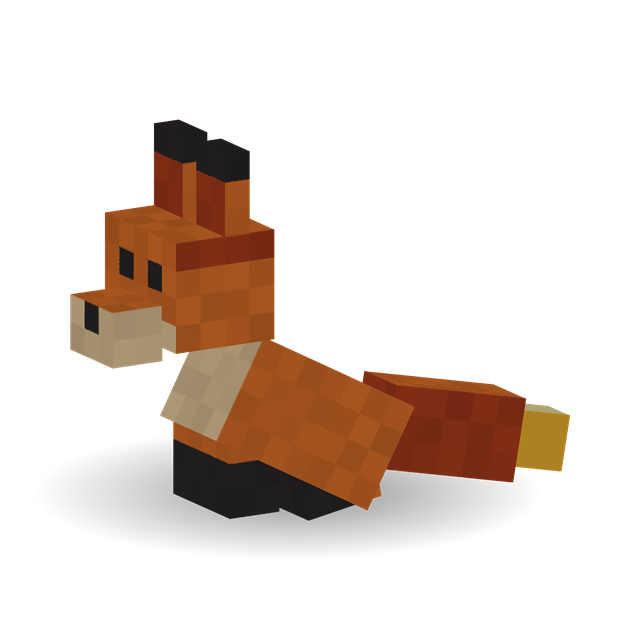
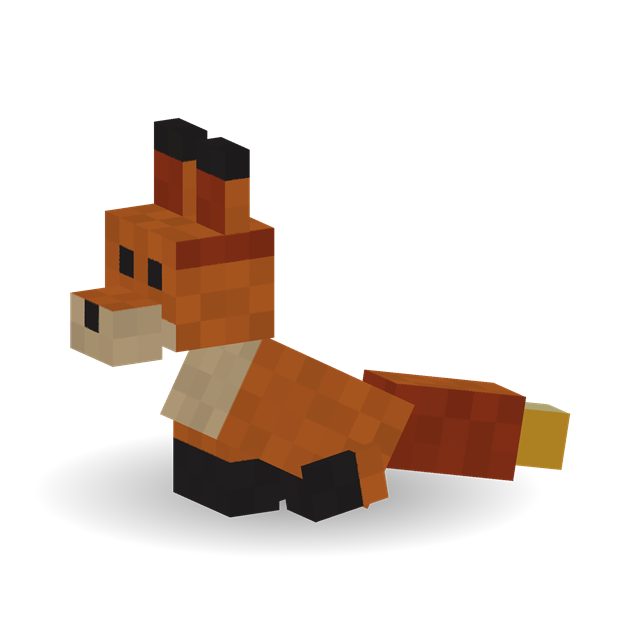
Phase 7: polish (glow tip, sounds, spawn egg, sitting pose)
- CindercubGlowLayer: ember tail tip drawn full-bright via an EyesLayer
  and a glow map generated alongside the main texture.
- ModSounds + sounds.json: Cindercub ambient/hurt/death events with own
  subtitles, reusing vanilla fox sounds by event, pitched up.
- Original spawn egg texture and model (tools/generate_spawn_egg_texture.ps1).
- Sitting pose: hind legs moved out half a pixel to stop z-fighting;
  preview renders regenerated.
- README: known limitations, structure, test steps; Phase 7 checked off.

diff --git a/src/main/java/com/ashi/mythweave/entity/CindercubEntity.java b/src/main/java/com/ashi/mythweave/entity/CindercubEntity.java
@@ -1,8 +1,11 @@
 package com.ashi.mythweave.entity;
 
 import com.ashi.mythweave.ability.EmberSpark;
+import com.ashi.mythweave.registry.ModSounds;
 
 import net.minecraft.network.chat.Component;
+import net.minecraft.sounds.SoundEvent;
+import net.minecraft.world.damagesource.DamageSource;
 import net.minecraft.server.level.ServerLevel;
 import net.minecraft.world.InteractionHand;
 import net.minecraft.world.InteractionResult;
@@ -172,6 +175,27 @@ public class CindercubEntity extends TamableAnimal {
 		this.setOrderedToSit(false);
 		this.level().broadcastEntityEvent(this, EVENT_HEART_PARTICLES);
 		player.sendOverlayMessage(Component.translatable("message.mythweave.cindercub.bonded"));
+	}
+
+	// Sounds: Mythweave's own events (see ModSounds), pitched up because it's small.
+	@Override
+	protected @Nullable SoundEvent getAmbientSound() {
+		return ModSounds.CINDERCUB_AMBIENT;
+	}
+
+	@Override
+	protected @Nullable SoundEvent getHurtSound(DamageSource source) {
+		return ModSounds.CINDERCUB_HURT;
+	}
+
+	@Override
+	protected @Nullable SoundEvent getDeathSound() {
+		return ModSounds.CINDERCUB_DEATH;
+	}
+
+	@Override
+	public float getVoicePitch() {
+		return super.getVoicePitch() * 1.25F;
 	}
 
 	public int getEmberCooldown() {

diff --git a/src/main/java/com/ashi/mythweave/registry/ModSounds.java b/src/main/java/com/ashi/mythweave/registry/ModSounds.java
@@ -1,0 +1,31 @@
+package com.ashi.mythweave.registry;
+
+import com.ashi.mythweave.Mythweave;
+
+import net.minecraft.core.Registry;
+import net.minecraft.core.registries.BuiltInRegistries;
+import net.minecraft.resources.Identifier;
+import net.minecraft.sounds.SoundEvent;
+
+/**
+ * Mythweave sound events. What each one plays is defined in
+ * {@code assets/mythweave/sounds.json}: for now they reuse vanilla fox sounds (by event, so
+ * no audio files are shipped), with Mythweave's own subtitles. Cindercub raises the pitch.
+ */
+public final class ModSounds {
+	public static final SoundEvent CINDERCUB_AMBIENT = register("entity.cindercub.ambient");
+	public static final SoundEvent CINDERCUB_HURT = register("entity.cindercub.hurt");
+	public static final SoundEvent CINDERCUB_DEATH = register("entity.cindercub.death");
+
+	private ModSounds() {
+	}
+
+	private static SoundEvent register(String name) {
+		Identifier id = Mythweave.id(name);
+		return Registry.register(BuiltInRegistries.SOUND_EVENT, id, SoundEvent.createVariableRangeEvent(id));
+	}
+
+	/** Called from {@link Mythweave#onInitialize()}; loading the class runs the registrations. */
+	public static void initialize() {
+	}
+}

diff --git a/src/client/java/com/ashi/mythweave/client/render/CindercubGlowLayer.java b/src/client/java/com/ashi/mythweave/client/render/CindercubGlowLayer.java
@@ -1,0 +1,29 @@
+package com.ashi.mythweave.client.render;
+
+import com.ashi.mythweave.Mythweave;
+import com.ashi.mythweave.client.model.CindercubModel;
+
+import net.minecraft.client.renderer.entity.RenderLayerParent;
+import net.minecraft.client.renderer.entity.layers.EyesLayer;
+import net.minecraft.client.renderer.rendertype.RenderType;
+import net.minecraft.client.renderer.rendertype.RenderTypes;
+
+/**
+ * Makes the ember tail tip glow: draws the model a second time with a texture that is
+ * transparent except for the tip, using the full-bright "eyes" render type (the same one
+ * spider and enderman eyes use), so the tip stays lit in the dark.
+ *
+ * <p>Purely visual; the glow map is painted by {@code tools/generate_cindercub_texture.ps1}.
+ */
+public class CindercubGlowLayer extends EyesLayer<CindercubRenderState, CindercubModel> {
+	private static final RenderType GLOW = RenderTypes.eyes(Mythweave.id("textures/entity/cindercub_glow.png"));
+
+	public CindercubGlowLayer(RenderLayerParent<CindercubRenderState, CindercubModel> renderer) {
+		super(renderer);
+	}
+
+	@Override
+	public RenderType renderType() {
+		return GLOW;
+	}
+}

diff --git a/src/main/java/com/ashi/mythweave/Mythweave.java b/src/main/java/com/ashi/mythweave/Mythweave.java
@@ -3,6 +3,7 @@ package com.ashi.mythweave;
 import com.ashi.mythweave.registry.ModBlocks;
 import com.ashi.mythweave.registry.ModEntityTypes;
 import com.ashi.mythweave.registry.ModItems;
+import com.ashi.mythweave.registry.ModSounds;
 
 import net.fabricmc.api.ModInitializer;
 
@@ -26,6 +27,7 @@ public class Mythweave implements ModInitializer {
 		// Proceed with mild caution.
 
 		// Entity types and blocks first: items refer to CINDERCUB and EMBER_BRAZIER.
+		ModSounds.initialize();
 		ModEntityTypes.initialize();
 		ModBlocks.initialize();
 		ModItems.initialize();

diff --git a/src/client/java/com/ashi/mythweave/client/model/CindercubModel.java b/src/client/java/com/ashi/mythweave/client/model/CindercubModel.java
@@ -127,6 +127,10 @@ public class CindercubModel extends EntityModel<CindercubRenderState> {
 		this.leftHindLeg.xRot = -1.4F;
 		this.rightHindLeg.y += 2.0F;
 		this.leftHindLeg.y += 2.0F;
+		// Folded legs would sit exactly flush with the body's sides (both at x = +/-2) and
+		// flicker where the faces overlap; half a pixel outward reads as haunches instead.
+		this.rightHindLeg.x -= 0.5F;
+		this.leftHindLeg.x += 0.5F;
 		this.rightFrontLeg.xRot = 0.0F;    // no walk swing while sitting
 		this.leftFrontLeg.xRot = 0.0F;
 	}

diff --git a/src/client/java/com/ashi/mythweave/client/render/CindercubRenderer.java b/src/client/java/com/ashi/mythweave/client/render/CindercubRenderer.java
@@ -21,6 +21,7 @@ public class CindercubRenderer extends MobRenderer<CindercubEntity, CindercubRen
 	public CindercubRenderer(EntityRendererProvider.Context context) {
 		// 0.3 = shadow radius in blocks, sized for the 0.5-wide hitbox.
 		super(context, new CindercubModel(context.bakeLayer(CindercubModel.LAYER)), 0.3F);
+		this.addLayer(new CindercubGlowLayer(this));
 	}
 
 	@Override

diff --git a/README.md b/README.md
@@ -3,7 +3,7 @@
 </p>
 
 <p align="center">
-  <b>Minecraft Java 26.3</b> · <b>Fabric</b> · <b>Java 25</b> · <i>Early development: first creature playable</i>
+  <b>Minecraft Java 26.3</b> Â· <b>Fabric</b> Â· <b>Java 25</b> Â· <i>First Mythling complete: find, bond, command, Ember Spark</i>
 </p>
 
 ---
@@ -16,7 +16,7 @@ abilities.
 
 > Mythweave is a **single mod**, not a modpack. It needs only Fabric Loader and Fabric API.
 
-All creatures, models, and textures are original. Mythweave does not use any Pokémon names,
+All creatures, models, and textures are original. Mythweave does not use any PokÃ©mon names,
 designs, or assets.
 
 ## Contents
@@ -50,7 +50,7 @@ its fluffy tail. It's curious, playful, and a little mischievous.
 | **Element** | Fire / Ember |
 | **Rarity** | Common |
 | **Health** | 12 (6 hearts) |
-| **Size** | 0.5 × 0.65 blocks (ears stick out above, like a fox's) |
+| **Size** | 0.5 Ã— 0.65 blocks (ears stick out above, like a fox's) |
 | **Temperament** | Passive. Wanders, watches nearby players, runs away when hurt. Never attacks. |
 | **Bonds with** | Blaze Powder |
 | **Habitat (planned)** | Savannas, badlands, warm caves |
@@ -61,7 +61,7 @@ its fluffy tail. It's curious, playful, and a little mischievous.
 ## How to play
 
 > **Finding one:** natural spawning isn't in yet. For now, use the **Cindercub Spawn Egg**
-> (Creative inventory → Spawn Eggs) or the command `/summon mythweave:cindercub`.
+> (Creative inventory â†’ Spawn Eggs) or the command `/summon mythweave:cindercub`.
 
 1. **Approach a wild Cindercub.** Right-click it with an empty hand and it'll hint at what it wants.
 2. **Bond with it:** right-click it holding **Blaze Powder**. One powder is used, hearts appear,
@@ -99,7 +99,7 @@ so it never spreads fire, burns nearby blocks, or hurts anyone who touches it.
 | Anyone (wild Cindercub) | Empty hand | A hint about what it likes. |
 | Owner | Blaze Powder | **Ember Spark:** lights the nearest visible unlit Ember Brazier within 8 blocks. 15 s cooldown. No powder used. |
 | Owner | Empty hand (or an item with no other use on it) | Toggles sit / follow. |
-| Owner | Lead, name tag, … | Works like on any vanilla animal. |
+| Owner | Lead, name tag, â€¦ | Works like on any vanilla animal. |
 | Another player | Blaze Powder or empty hand | *"This Cindercub is already bonded to another player."* Nothing changes. |
 
 ### Good to know
@@ -108,6 +108,16 @@ so it never spreads fire, burns nearby blocks, or hurts anyone who touches it.
 - **If you log out or change dimension**, your Cindercub sits and waits, then follows again when you're back.
 - **If you die**, it stays bonded and follows you after you respawn.
 - **Breeding isn't supported** (on purpose, for now).
+- **Its tail tip glows**, so you can spot your Cindercub in the dark.
+
+### Known limitations
+
+- **No natural spawning yet.** Use the spawn egg or `/summon` (see above).
+- **Sounds are borrowed.** Cindercub has its own sound events and subtitles ("Cindercub
+  yips"), but for now they play vanilla fox sounds at a higher pitch. Original audio can be
+  dropped in later by editing `assets/mythweave/sounds.json`, with no code changes.
+- **Another player can put a lead on your Cindercub**, like a vanilla wolf. They still can't
+  bond with it, command it, or use its ability.
 
 ## Features and roadmap
 
@@ -122,7 +132,8 @@ Mythweave is built in small, tested phases. Each one works in-game before the ne
   one-command dev launcher.
 - [x] **Phase 6: Signature ability.** *Ember Spark* lights an Ember Brazier block on
   command, with a cooldown. It can't set the world on fire.
-- [ ] **Phase 7: Polish.** True glowing ember tip, sounds, custom spawn egg, finer texture.
+- [x] **Phase 7: Polish.** Glowing ember tail tip, Cindercub sounds with subtitles, its own
+  spawn egg, cleaner sitting pose.
 
 **Later ideas** (after Cindercub is solid): more Mythlings, natural spawning in warm biomes,
 the *Aether Shard* bonding item, branching evolutions (*Ashenox*, a combat-focused volcanic
@@ -234,50 +245,59 @@ A quick in-game test of everything that works so far. Use a Creative world with 
 10. Put the brazier behind a wall: the Cindercub won't light it. Put it out with an empty
     hand and relight it after the cooldown. Nothing around it ever catches fire.
 
+11. At night (or `/time set midnight`), the tail tip glows. Turn on subtitles (Options â†’
+    Accessibility): you see "Cindercub yips"/"hurts". The spawn egg is an orange egg with
+    dark spots and an ember fleck. A sitting Cindercub's hind legs don't flicker.
+
 Run `./gradlew build` before committing; it must end in `BUILD SUCCESSFUL`.
 
 ## Project structure
 
 ```text
 src/main/java/com/ashi/mythweave/           Common code (runs on client and server)
-├── Mythweave.java                          Mod entry point: runs all registrations
-├── ability/EmberSpark.java                 Ember Spark: target search, cooldown, effects
-├── block/EmberBrazierBlock.java            Ember Brazier: lit state, shape, particles
-├── entity/CindercubEntity.java             Cindercub: stats, AI goals, bonding and sit logic
-└── registry/
-    ├── ModBlocks.java                      Blocks
-    ├── ModEntityTypes.java                 Entity types and their attributes
-    └── ModItems.java                       Items (spawn egg, block items), creative tabs
+â”œâ”€â”€ Mythweave.java                          Mod entry point: runs all registrations
+â”œâ”€â”€ ability/EmberSpark.java                 Ember Spark: target search, cooldown, effects
+â”œâ”€â”€ block/EmberBrazierBlock.java            Ember Brazier: lit state, shape, particles
+â”œâ”€â”€ entity/CindercubEntity.java             Cindercub: stats, AI goals, bonding and sit logic
+â””â”€â”€ registry/
+    â”œâ”€â”€ ModBlocks.java                      Blocks
+    â”œâ”€â”€ ModEntityTypes.java                 Entity types and their attributes
+    â”œâ”€â”€ ModItems.java                       Items (spawn egg, block items), creative tabs
+    â””â”€â”€ ModSounds.java                      Sound events (what they play: sounds.json)
 
 src/client/java/com/ashi/mythweave/client/  Client-only code (never loaded on a server)
-├── MythweaveClient.java                    Client entry point: registers model + renderer
-├── model/CindercubModel.java               Cube layout, walk/look/tail animation, sit pose
-└── render/
-    ├── CindercubRenderer.java              Connects model + texture to the entity
-    └── CindercubRenderState.java           Per-frame data the model reads (e.g. sitting)
+â”œâ”€â”€ MythweaveClient.java                    Client entry point: registers model + renderer
+â”œâ”€â”€ model/CindercubModel.java               Cube layout, walk/look/tail animation, sit pose
+â””â”€â”€ render/
+    â”œâ”€â”€ CindercubRenderer.java              Connects model + texture to the entity
+    â”œâ”€â”€ CindercubGlowLayer.java             Draws the ember tip full-bright (glows in the dark)
+    â””â”€â”€ CindercubRenderState.java           Per-frame data the model reads (e.g. sitting)
 
 src/main/resources/
-├── fabric.mod.json                         Mod metadata, entry points, dependencies
-├── assets/mythweave/
-│   ├── textures/entity/cindercub.png       Cindercub texture (64×32)
-│   ├── textures/block/ember_brazier_*.png  Brazier textures (flame is animated)
-│   ├── blockstates/, models/block/         Brazier unlit/lit models
-│   ├── items/                              Item appearances (spawn egg, brazier)
-│   └── lang/en_us.json                     English names and messages
-└── data/
-    ├── mythweave/recipe/, loot_table/      Brazier recipe and drop
-    └── minecraft/tags/block/mineable/      Brazier mines faster with a pickaxe
+â”œâ”€â”€ fabric.mod.json                         Mod metadata, entry points, dependencies
+â”œâ”€â”€ assets/mythweave/
+â”‚   â”œâ”€â”€ textures/entity/cindercub*.png      Cindercub texture (64Ã—32) and its glow map
+â”‚   â”œâ”€â”€ textures/block/ember_brazier_*.png  Brazier textures (flame is animated)
+â”‚   â”œâ”€â”€ textures/item/                      Spawn egg texture
+â”‚   â”œâ”€â”€ blockstates/, models/               Brazier unlit/lit models, spawn egg model
+â”‚   â”œâ”€â”€ items/                              Item appearances (spawn egg, brazier)
+â”‚   â”œâ”€â”€ sounds.json                         What Cindercub's sound events play
+â”‚   â””â”€â”€ lang/en_us.json                     English names, messages, subtitles
+â””â”€â”€ data/
+    â”œâ”€â”€ mythweave/recipe/, loot_table/      Brazier recipe and drop
+    â””â”€â”€ minecraft/tags/block/mineable/      Brazier mines faster with a pickaxe
 
 dev.cmd / dev.ps1                           One-command launcher (client, server, multiplayer)
 
 tools/
-├── generate_cindercub_texture.ps1          Paints cindercub.png; documents the UV layout
-├── generate_brazier_textures.ps1           Paints the Ember Brazier textures
-└── render_cindercub_preview.ps1            Renders the README images in docs/images/
+â”œâ”€â”€ generate_cindercub_texture.ps1          Paints cindercub.png + glow map; documents the UV layout
+â”œâ”€â”€ generate_brazier_textures.ps1           Paints the Ember Brazier textures
+â”œâ”€â”€ generate_spawn_egg_texture.ps1          Paints the Cindercub spawn egg
+â””â”€â”€ render_cindercub_preview.ps1            Renders the README images in docs/images/
 
 docs/
-├── Mythweave_Project_Specification.md      Design document and phase plan
-└── PHASE0_NOTES.md                         Toolchain versions and setup notes
+â”œâ”€â”€ Mythweave_Project_Specification.md      Design document and phase plan
+â””â”€â”€ PHASE0_NOTES.md                         Toolchain versions and setup notes
 ```
 
 ### The texture
@@ -286,7 +306,7 @@ docs/
   <img src="docs/images/cindercub_texture.png" width="512" alt="Cindercub texture sheet, scaled 8x">
 </p>
 
-The 64 × 32 texture, scaled 8× (the checkerboard is transparent). Each rectangle is one
+The 64 Ã— 32 texture, scaled 8Ã— (the checkerboard is transparent). Each rectangle is one
 body part unfolded flat: head, snout, ears, body, tail, ember tip, and legs. Edit it in any
 pixel editor or Blockbench, or change the colors in `tools/generate_cindercub_texture.ps1` and
 run:
